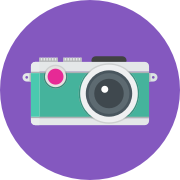
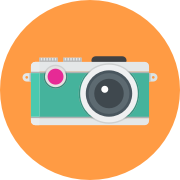
updated stylings

diff --git a/src/components/App/App.js b/src/components/App/App.js
@@ -4,8 +4,12 @@ import classNames from 'classnames';
 import axios from 'axios';
 import { getMoments } from '../../actions';
 import store from '../../reducers';
-import { Link } from 'react-router'
+import { Link } from 'react-router';
 import './App.css';
+
+import Logo from '../../assets/logo.svg';
+import Soup from '../../assets/soup.png';
+import Car from '../../assets/car.png';
 
 class App extends Component {
 
@@ -20,16 +24,16 @@ class App extends Component {
     return (
       <div className={classNames('App')}>
         <div className="wrapper">
-          <h1 className="App__logo">
-            <span className="App__logo-first">Spare</span>
-            <span className="App__logo-second">M_ments</span>
-          </h1>
           <div className="App__lead">
             <p className="App__leadcopy">Donating an hour of your time can have a huge impact on someone else.</p>
           </div>
+          <h1 className="App__logo">
+            <img src={Logo} alt=""/>
+          </h1>
+
           <ul className="App__slider">
             <li className="App__slider-card">
-              <img src="https://s3.amazonaws.com/uifaces/faces/twitter/peterme/128.jpg"
+              <img src={Soup}
               className="App__slider-image"
               alt=""/>
               <div className="App__slider-copy">
@@ -38,7 +42,7 @@ class App extends Component {
               </div>
             </li>
             <li className="App__slider-card">
-              <img src="https://s3.amazonaws.com/uifaces/faces/twitter/vladarbatov/128.jpg"
+              <img src={Car}
               className="App__slider-image"
               alt=""/>
               <div className="App__slider-copy">
@@ -47,7 +51,7 @@ class App extends Component {
               </div>
             </li>
             <li className="App__slider-card">
-              <img src="https://s3.amazonaws.com/uifaces/faces/twitter/glif/128.jpg"
+              <img src={Soup}
               className="App__slider-image"
               alt=""/>
               <div className="App__slider-copy">

diff --git a/src/components/Moment/Moment.js b/src/components/Moment/Moment.js
@@ -23,8 +23,10 @@ class Moment extends Component {
       this.props.router.push('/');
     } else {
       let data = this.props.moments.filter((val) => {
-        return val.skill === activeSkill;
+        return val.skill === this.props.activeSkill;
       });
+
+      console.log(data)
 
       this.setState({
         moment: data[Math.floor(Math.random() * data.length)]
@@ -44,12 +46,14 @@ class Moment extends Component {
       { this.state.moment !== null
         ?
         <div className="wrapper Moment__content">
-          <p>{ this.state.moment.name } needs help with</p>
-          <p className="Moment__large">{ this.state.moment.title }</p>
-          <p className="Moment__about">{ this.state.moment.name }</p>
-          <p className="Moment__copy">{ this.state.moment.description }</p>
-          <p className="Moment__about">Proximity</p>
-          <p className="Moment__light">5 min</p>
+          <div className="Moment__wrapper">
+            <p>{ this.state.moment.name } needs help with</p>
+            <p className="Moment__large">{ this.state.moment.title }</p>
+            <p className="Moment__about">{ this.state.moment.name }</p>
+            <p className="Moment__copy">{ this.state.moment.description }</p>
+            <p className="Moment__about">Proximity</p>
+            <p className="Moment__light">5 min</p>
+          </div>
           <button onClick={ this.handleNavigate } className="button--bottom">Help { this.state.moment.name }</button>
         </div>
         :

diff --git a/src/components/Register/Register.js b/src/components/Register/Register.js
@@ -5,7 +5,7 @@ import classNames from 'classnames';
 import axios from 'axios';
 import Dropzone from 'react-dropzone';
 import store from '../../reducers';
-import logo from '../../assets/camera-icon.png';
+import camera from '../../assets/camera-icon.png';
 import { updateName, updateProfilePic } from '../../actions';
 import './Register.css';
 
@@ -35,7 +35,8 @@ class Register extends Component {
   }
 
   render() {
-    const image = this.props.profilePic ? this.props.profilePic : logo;
+    const image = this.props.profilePic ? this.props.profilePic : camera;
+    const disabledLink = this.props.profilePic.length && this.props.userName.length ? '' : 'disabled-link'
     return (
       <div className="Register">
         <div className="wrapper">
@@ -57,7 +58,7 @@ class Register extends Component {
               <img src={ image } />
 
             </Dropzone>
-            <Link to="/register/skills" className="button--bottom">How can you help?</Link>
+            <Link to="/register/skills" className={classNames("button--bottom", disabledLink)}>How can you help?</Link>
           </div>
         </div>
       </div>

diff --git a/src/components/App/App.css b/src/components/App/App.css
@@ -3,28 +3,17 @@
 }
 
 .App {
-  padding-top: 14rem;
+  /*padding-top: 3rem;*/
+}
+
+.App .button--bottom {
+  color: #2CA3E9;
 }
 
 .App__logo {
-  font-weight: bold;
-  color: white;
-  font-size: 9rem;
-  margin: 0;
+  text-align: center;
 }
 
-.App__logo-first, .App__logo-second {
-  display: block;
-}
-
-.App__logo-first {
-  text-align: left;
-  margin-bottom: 30px;
-}
-
-.App__logo-second {
-  text-align: right;
-}
 
 .App__lead {
   display: flex;
@@ -34,14 +23,13 @@
 .App__leadcopy {
   font-size: 2.6rem;
   color: white;
-  max-width: 389px;
-  text-align: left;
-  padding-right: 50px;
+  text-align: center;
   line-height: 1.6;
+  padding: 0 30px;
 }
 
 .App__slider {
-  margin: 17rem 0 9.1rem 0;
+  margin: 9rem 0 5rem 0;
   padding: 0;
   list-style: none;
   overflow-x: scroll;
@@ -55,6 +43,7 @@
   -ms-align-items: center;
   align-items: center;
   flex: 1 0 auto;
+  max-width: 300px;
   margin-left: 50px;
 }
 
@@ -68,7 +57,11 @@
 .App__slider-copy {
   color: white;
   text-align: left;
-  font-weight: 500;
+}
+
+.App__slider-copy p {
+    font-weight: 500;
+    font-size: 2rem;
 }
 
 .App__slider-copy p {

diff --git a/src/components/ReadySkills/ReadySkills.js b/src/components/ReadySkills/ReadySkills.js
@@ -15,11 +15,11 @@ class ReadySkills extends Component {
     this.handleActiveSkillUpdate = this.handleActiveSkillUpdate.bind(this);
   }
 
-  // componentWillMount() {
-  //   if (this.props.moments.length === 0) {
-  //     this.props.router.push('/');
-  //   }
-  // }
+  componentWillMount() {
+    if (this.props.moments.length === 0) {
+      this.props.router.push('/');
+    }
+  }
 
   handleActiveSkillUpdate(e) {
     this.props.updateActiveSkill(e.target.value);

diff --git a/src/components/Register/Register.css b/src/components/Register/Register.css
@@ -2,6 +2,10 @@
   background-color: #458EDD;
 }
 
+.Register .button--bottom {
+  color: #458EDD;
+}
+
 .Register__content {
   padding-top: 4rem;
   display: flex;
@@ -18,10 +22,14 @@
   font-size: 43rem;
 }
 
+.Register__input::placeholder {
+  color: rgba(255, 255, 255, 0.8);
+}
+
 .Register__imagedrop {
   border: none;
   border-radius: 50%;
-  background: #8458BF;
+  background: #FF9B44;
   width: 26.8rem;
   height: 26.8rem;
   margin: 0 auto;

diff --git a/src/components/Skills/Skills.css b/src/components/Skills/Skills.css
@@ -2,6 +2,10 @@
   background-color: #597DD3;
 }
 
+.Skills .button--bottom {
+  color: #597DD3;
+}
+
 .Skills__content {
   padding-top: 4rem;
   display: flex;
@@ -38,7 +42,8 @@
 
 .Skills__inputBlock label {
   display: block;
-
+  font-size: 2rem;
+  cursor: pointer;
 }
 
 .Skills__inputimage {

diff --git a/public/index.html b/public/index.html
@@ -13,7 +13,7 @@
       work correctly both with client-side routing and a non-root public URL.
       Learn how to configure a non-root public URL by running `npm run build`.
     -->
-    <title>React App</title>
+    <title>Spare Moments</title>
   </head>
   <body>
     <div id="root"></div>

diff --git a/src/assets/index.css b/src/assets/index.css
@@ -34,6 +34,12 @@ p {
   border: 0;
   font-family: 'Avenir Next LT Pro';
   cursor: pointer;
+  font-weight: bold;
+}
+
+.disabled-link {
+  opacity: 0.8;
+  pointer-events: none;
 }
 
 .wrapper {

diff --git a/src/components/ReadySkills/ReadySkills.css b/src/components/ReadySkills/ReadySkills.css
@@ -2,6 +2,10 @@
   background-color: #8259BF;
 }
 
+.ReadySkills .button--bottom {
+  color: #8259BF;
+}
+
 .ReadySkills__content {
   padding-top: 11rem;
   text-align: center;

diff --git a/src/components/Success/Success.css b/src/components/Success/Success.css
@@ -2,6 +2,10 @@
   background-color: #6E6AC9;
 }
 
+.Success .button--bottom {
+  color: #6E6AC9;
+}
+
 .Success__content {
   padding-top: 40px;
   display: -webkit-flex;

diff --git a/src/components/Location/Location.css b/src/components/Location/Location.css
@@ -2,6 +2,10 @@
   background-color: #BA2AA4;
 }
 
+.Location .button--bottom {
+  color: #BA2AA4;
+}
+
 .Location__content {
   padding-top: 4rem;
   text-align: center;
